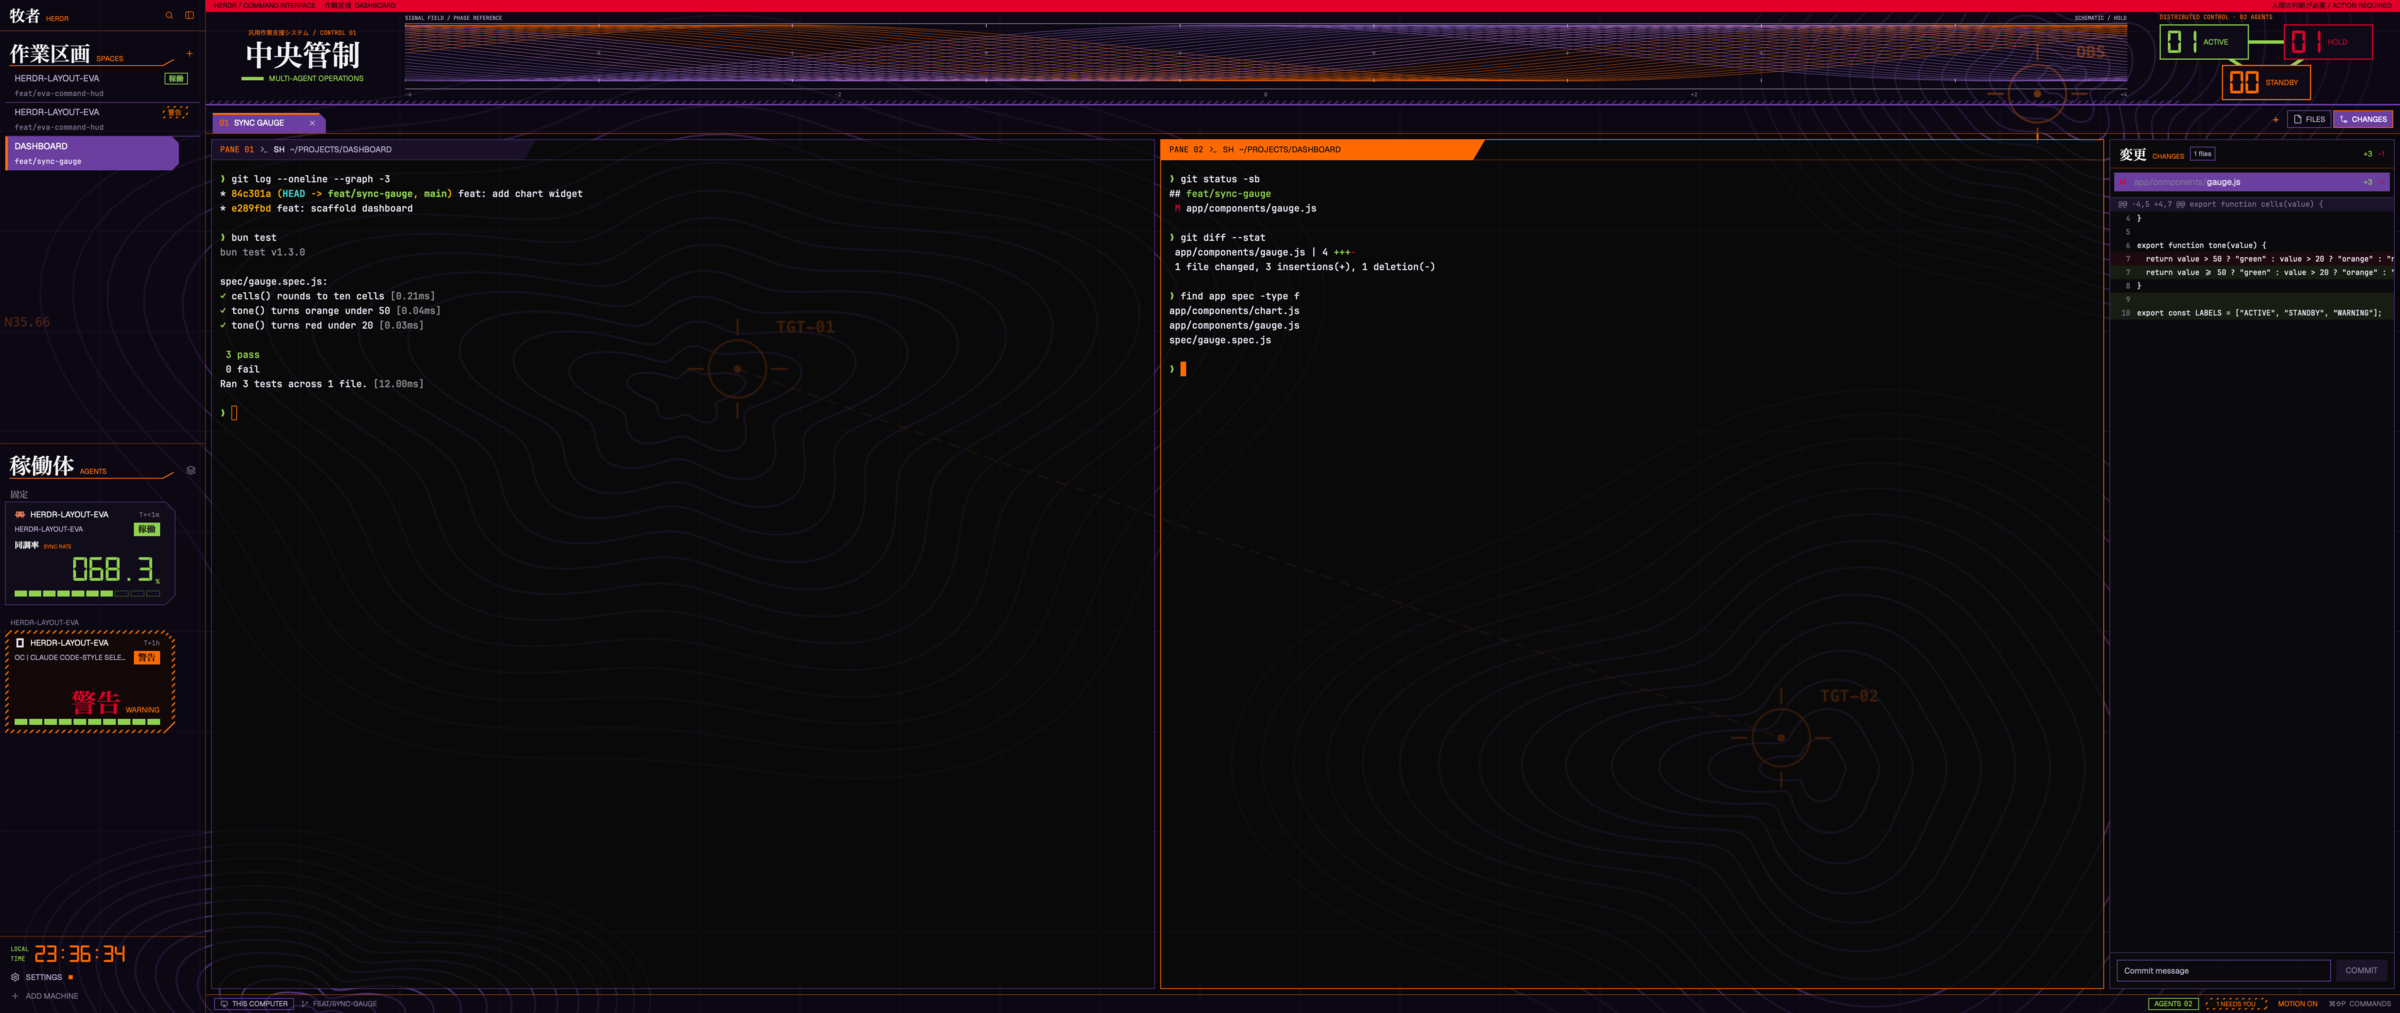
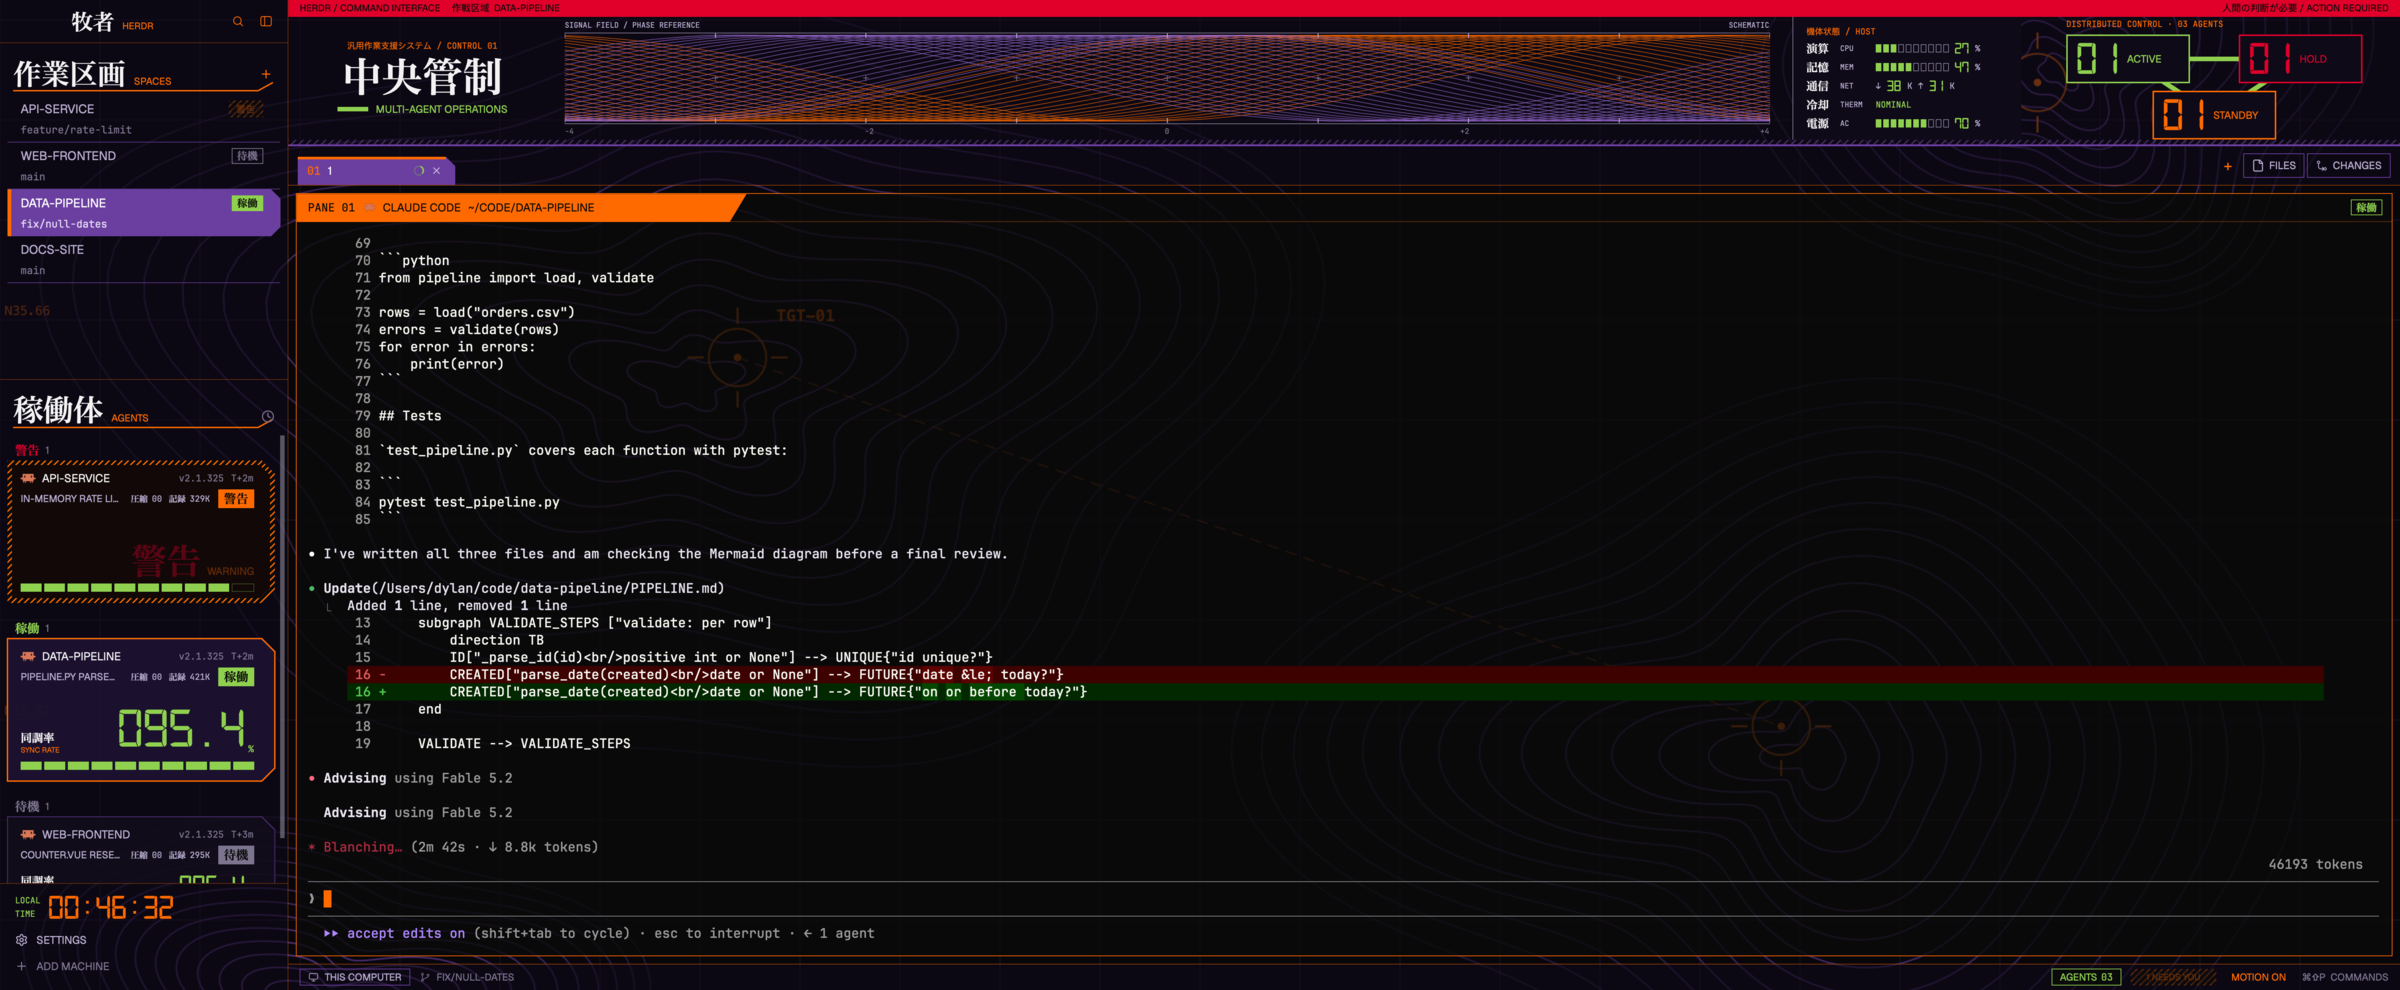
📖 docs: refresh README preview and add motion gif
- Replace preview.png with a clean herdr-app shot (four demo spaces, blocked/working/done agents, HOST panel) so no personal config shows.
- Add motion.gif showing the switch card on a space change and a new agent's launch card.
- Embed motion.gif under the preview in the README.

---

重拍 README 預覽圖並新增動態 GIF，展示切換卡與作戦開始卡，畫面取自乾淨的 herdr-app 視窗。

diff --git a/README.md b/README.md
@@ -4,6 +4,8 @@ A late-90s command-center HUD layout for [herdr-app](https://herdr.dev). It has 
 
 ![EVA HUD](preview.png)
 
+![作戦開始 card and the 区画移行 / 接続切替 switch card](motion.gif)
+
 ![機体状態 HOST panel and agent counts](host.gif)
 
 All art is original vector work. It recreates a mood (colors, type, shapes), not any show's logos, characters or screenshots.
